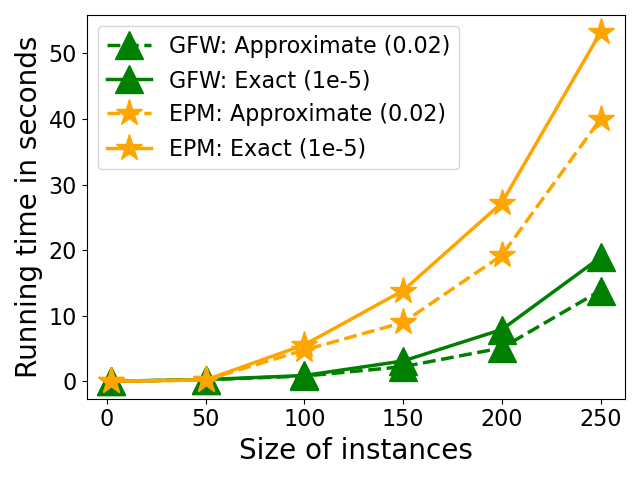
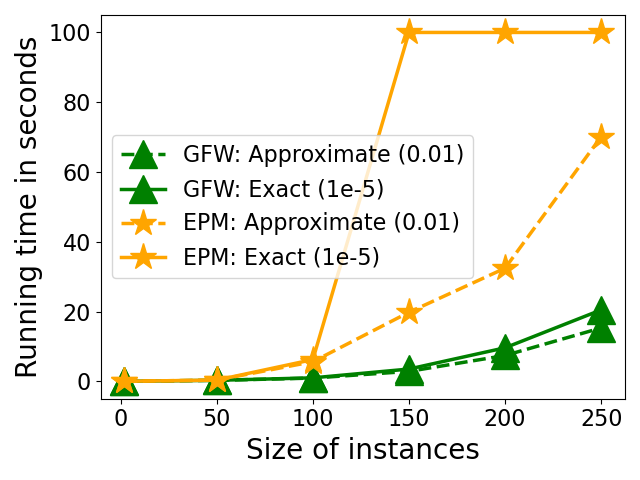
update data and plots

diff --git a/chores_ceei_experiments.py b/chores_ceei_experiments.py
@@ -28,10 +28,10 @@ print("- cvxpy installed solvers:", cp.installed_solvers())
 Set up 'Approximate' and 'Exact' tolerances
 """
 
-APPROXIMATE_THR = 0.02
-EXACT_TOL = 1e-5
-E2TOL = 1e-5
-E3TOL = 1e-5
+APPROXIMATE_THR = 0.01
+EXACT_TOL = 1e-6
+E2TOL = 1e-6
+E3TOL = 1e-6
 
 def eps_approx_eq(N, M, D, B, p, x, E2Tol=E2TOL, E3Tol=E3TOL, report_all=False, ignore_print=False):
 
@@ -242,8 +242,8 @@ def QMO(ux0, N, A, b, C=None, d=None, solver='OSQP'):
         m.Params.LogToConsole = 0
         m.Params.FeasibilityTol = 1e-9
         m.Params.OptimalityTol = 1e-9
-        m.Params.BarConvTol = 1e-15
-        m.Params.BarCorrectors = 10000
+        m.Params.BarConvTol = 1e-16
+        # m.Params.BarCorrectors = 10000
 
         u = m.addMVar(N)
         x = m.addMVar(A.shape[1] - N)
@@ -356,7 +356,6 @@ def EPM(N, M, D, B, QMO_solver='best', print_quality=False, print_progress=False
             u_, min_dist = u_obj_list[np.argmin(res_dict['feasible objective value'])]
             if print_quality:
                 res_table = pd.DataFrame(res_dict)
-                display(res_table)
                 print(selected_solver)
 
         # choose one specific solver
@@ -371,8 +370,6 @@ def EPM(N, M, D, B, QMO_solver='best', print_quality=False, print_progress=False
             )
             solve_QP_time += time.time() - QP_start
             solve_QP_num += 1
-            if print_quality:
-                print_quality_QMO(u_, min_dist, N, A, b, C, d, solver_name=QMO_solver)
 
         u_, x = ux_[:N], ux_[N:].reshape(N, M)
         a = u_ - u
